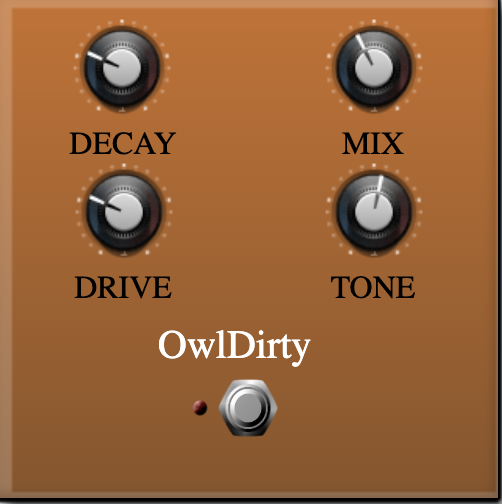
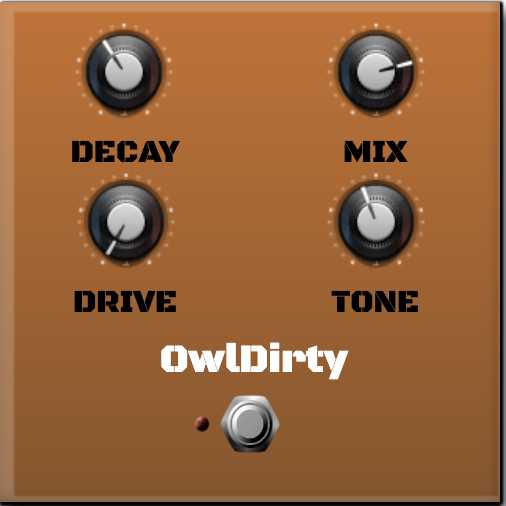
owldirty style

diff --git a/jordan-SINTES/OwlDirty/main.html b/jordan-SINTES/OwlDirty/main.html
@@ -1,3 +1,5 @@
+<link rel="stylesheet"
+          href="https://fonts.googleapis.com/css?family=Black+Ops+One">
 <script
     src="https://wasabi.i3s.unice.fr/WebAudioPluginBank/bower_components/webaudio-controls2/webcomponents-lite.js"></script>
 <script>
@@ -10,7 +12,7 @@
 <template>
     <style>
         :host {
-            font: "DarkMoon", 'Arial Black';
+
             display: block;
             box-shadow: 4px 5px 6px rgba(0, 0, 0, 0.7), inset -2px -2px 5px 0px rgba(0, 0, 0, 0.2), inset 3px 1px 1px 4px rgba(255, 255, 255, 0.2), 1px 0px 1px 0px rgba(0, 0, 0, 0.9), 0 2px 1px 0 rgba(0, 0, 0, 0.9), 1px 1px 1px 0px rgba(0, 0, 0, 0.9);
             background: linear-gradient(rgb(202, 112, 39), rgb(139, 84, 38));
@@ -20,6 +22,7 @@
             user-select: none;
             cursor: move;
             z-index: 9;
+            font-family: "Black Ops One";
             /* bring your own prefixes */
         }
 
@@ -80,7 +83,6 @@
             top: 225px;
             font-size: 20px;
             /*{font}*/
-            font-family: "DarkMoon";
             text-align: center;
             line-height: 30px;
             /*{pedalfontsize}*/
